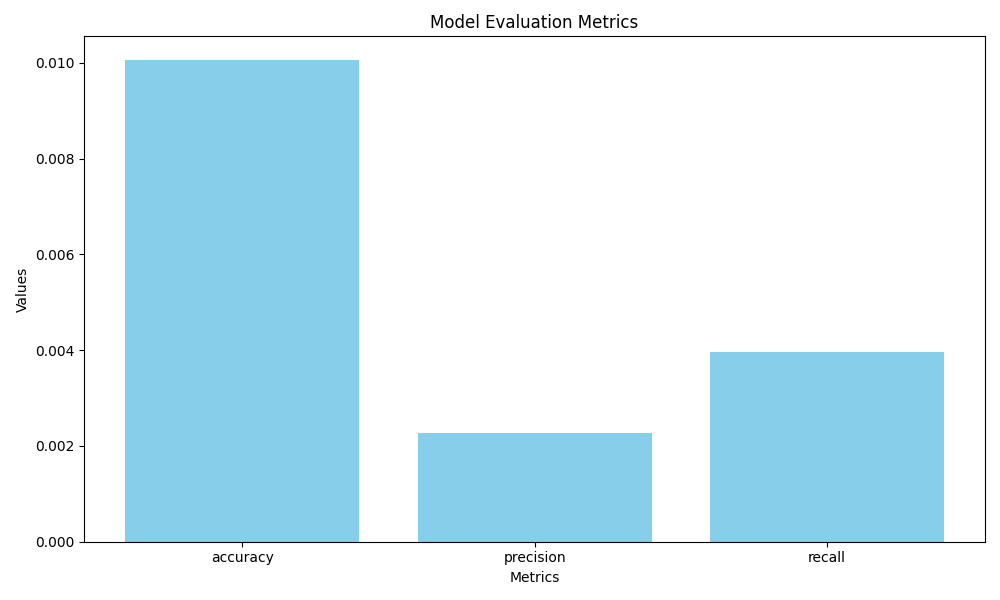
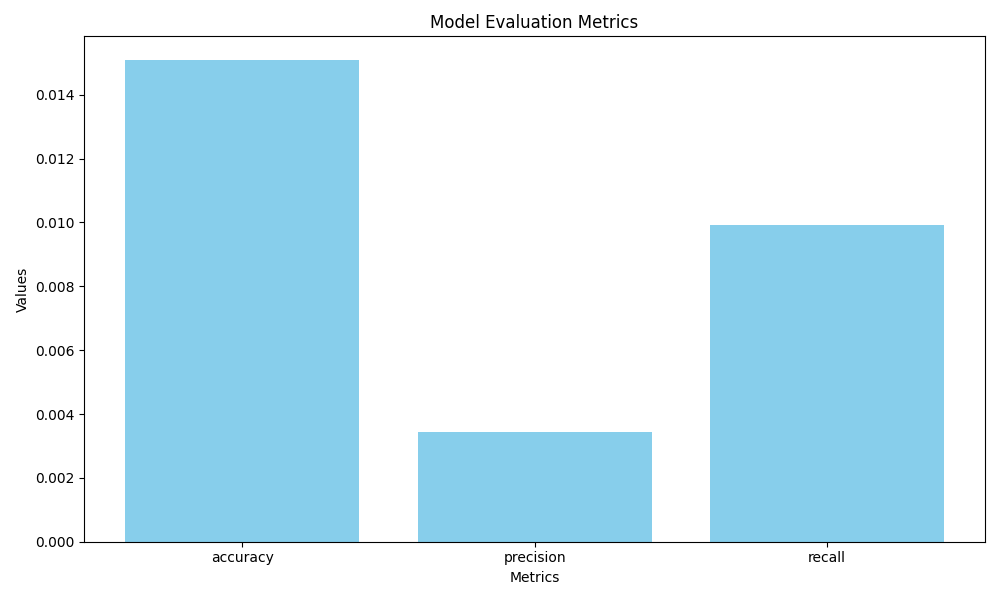
Logistic regression without 1000 iterations

diff --git a/test/test_model.py b/test/test_model.py
@@ -1,11 +1,11 @@
 import pandas as pd
 import numpy as np
+from sklearn.linear_model import LogisticRegression
 import sys
 import os
 sys.path.append(os.path.abspath(os.path.join(os.path.dirname(__file__), '..', 'src')))
 from model import split_data, train_model, evaluate_model, plot_metrics
 import matplotlib.pyplot as plt
-from sklearn.linear_model import LogisticRegression
 
 # Sample data generation, now includes a non-numeric column that should be ignored/removed in processing
 def generate_sample_data(num_rows=100, include_non_numeric=False):
@@ -31,15 +31,16 @@ def test_split_data():
 def test_train_model():
     df = generate_sample_data()
     X_train, X_test, y_train, y_test = split_data(df, 'target')
-    trained_model = train_model(X_train, y_train)
+    model = LogisticRegression()
+    trained_model = train_model(model, X_train, y_train)
     assert trained_model is not None
 
 # Test evaluate_model function
 def test_evaluate_model():
     df = generate_sample_data()
     X_train, X_test, y_train, y_test = split_data(df, 'target')
-    trained_model = train_model(X_train, y_train)
-    metrics = evaluate_model(trained_model, X_test, y_test)
+    model = LogisticRegression().fit(X_train, y_train)
+    metrics = evaluate_model(model, X_test, y_test)
     assert 'accuracy' in metrics
     assert 'precision' in metrics
     assert 'recall' in metrics

diff --git a/src/model.py b/src/model.py
@@ -3,7 +3,6 @@ import pandas as pd
 from sklearn.model_selection import train_test_split
 from sklearn.metrics import accuracy_score, precision_score, recall_score, confusion_matrix
 import matplotlib.pyplot as plt
-from sklearn.linear_model import LogisticRegression
 
 def preprocess_data(df):
     """
@@ -38,18 +37,18 @@ def split_data(df, target, test_size=0.2, random_state=42):
     X_train, X_test, y_train, y_test = train_test_split(X, y, test_size=test_size, random_state=random_state)
     return X_train, X_test, y_train, y_test
 
-def train_model(X_train, y_train):
+def train_model(model, X_train, y_train):
     """
-    Trains a LogisticRegression model on the training set with an increased max_iter parameter.
+    Trains the given model on the training set.
 
     Args:
+        model: The machine learning model to train.
         X_train: The training input samples.
         y_train: The target values for the training input samples.
 
     Returns:
         The trained model.
     """
-    model = LogisticRegression(max_iter=1000)  # Instantiate LogisticRegression with increased max_iter
     model.fit(X_train, y_train)
     return model
 

diff --git a/script/modelling.py b/script/modelling.py
@@ -7,6 +7,7 @@ import matplotlib.pyplot as plt
 from model import split_data, train_model, evaluate_model, plot_metrics
 
 import click
+from sklearn.linear_model import LogisticRegression
 
 @click.command()
 @click.argument('input_file')
@@ -19,18 +20,16 @@ def modelling(input_file, figure_prefix):
     # Read the data
     df = pd.read_csv(input_file)
 
-    # Define the target variable
     target = 'Price'
-    # Split the data into training and testing sets
     X_train, X_test, y_train, y_test = split_data(df, target, test_size=0.2, random_state=42)
 
-    # Train the model
-    trained_model = train_model(X_train, y_train)
+    model = LogisticRegression()
+    trained_model = train_model(model, X_train, y_train)
 
-    # Evaluate the model
+    # Evaluate model
     metrics = evaluate_model(trained_model, X_test, y_test)
     
-    # Plot and save the evaluation metrics
+    # Plot and save metrics
     metrics_filename = f"{figure_prefix}_metrics.png"
     plot_metrics(metrics, metrics_filename, results_dir)
 
